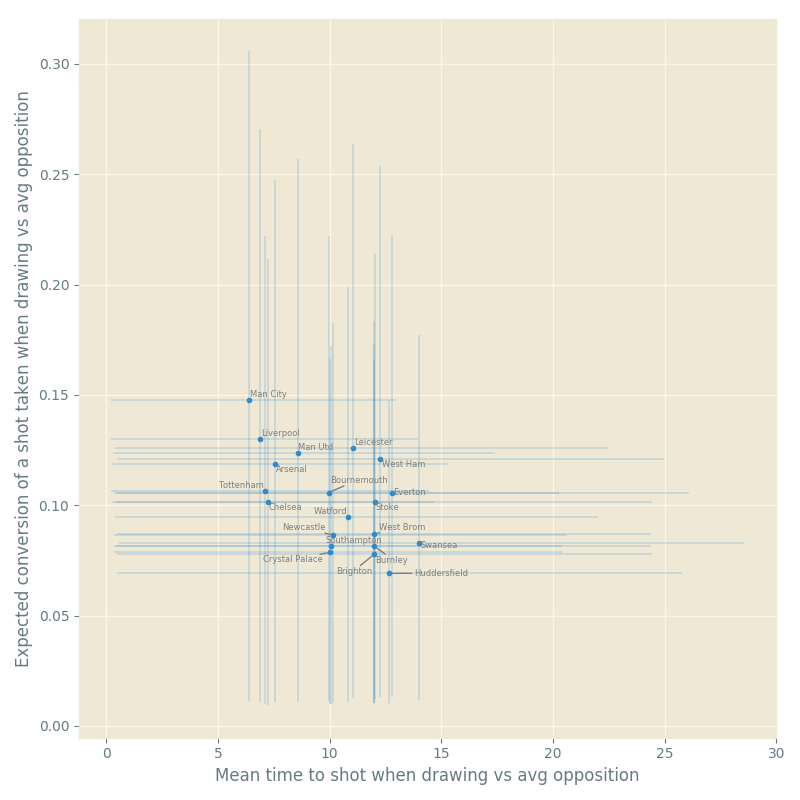
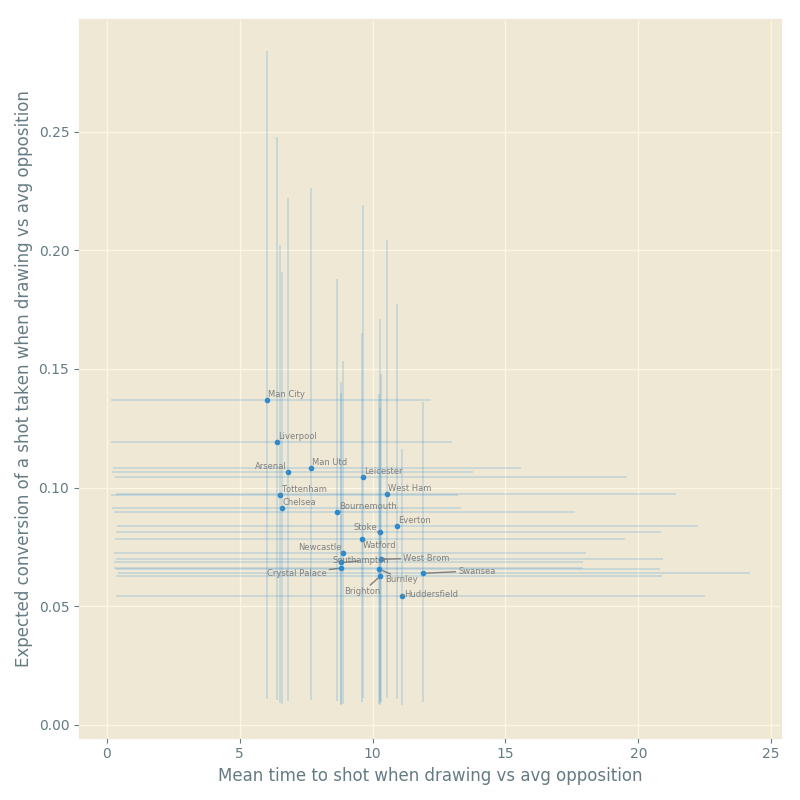
Make shooting rate and shot quality dependent on waiting time (closes #7)

diff --git a/run.py b/run.py
@@ -30,6 +30,10 @@ def fit(model_file, data, force_compile=False, **kwargs):
 
 def graph(samples, team_map, attack=True):
     """ Quick visualisation of the team coefficient samples. """
+    def weibull_means(shape, scales):
+        """ Return the mean of the Weibull distro, vectorized over scale. """
+        return ss.gamma(1.0 + 1.0/shape)*scales
+
     plt.style.use('Solarize_Light2')
 
     # Extract the samples
@@ -38,17 +42,21 @@ def graph(samples, team_map, attack=True):
     conversion = samples['conversion']
     obstruction = samples['obstruction']
 
+    # Get the time dependence parameters
+    quantity_k = np.mean(samples['quantity_k'])
+    quality_k = np.mean(samples['quality_k'])
+
     labels = list(team_map.keys())  # Magically in the correct order
 
     # Select quantities to plot and make them interpretable
     if attack:
-        xsamples = 1.0 / np.exp(generation + np.mean(prevention))
-        ysamples = ss.expit(conversion + np.mean(obstruction))
+        xsamples = weibull_means(quantity_k, np.exp(generation + np.mean(prevention)))
+        ysamples = ss.expit(conversion + np.mean(obstruction) + quality_k*xsamples)
         xlabel = "Mean time to shot when drawing vs avg opposition"
         ylabel = "Expected conversion of a shot taken when drawing vs avg opposition"
     else:
-        xsamples = 1.0 / np.exp(prevention + np.mean(generation))
-        ysamples = ss.expit(obstruction + np.mean(conversion))
+        xsamples = weibull_means(quantity_k, np.exp(prevention + np.mean(generation)))
+        ysamples = ss.expit(obstruction + np.mean(conversion) + quality_k*xsamples)
         xlabel = "Mean time to conceding a shot when drawing vs avg opposition"
         ylabel = "Expected conversion of a shot conceded when drawing vs avg opposition"
 
